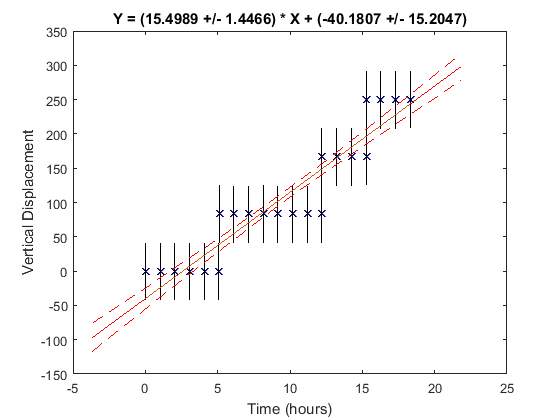
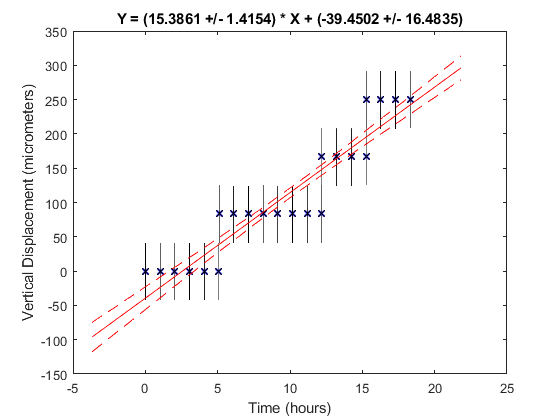
update

diff --git a/Time_lapse_code.m b/Time_lapse_code.m
@@ -19,6 +19,7 @@ y_error = 0.5*d_per_pix*1000;
 
 x = T_hour;
 y = d.*1000;
+% y = y./cos(pi/4);
 
 plot(x,y,'x','color',[0.2 0.2 0.98],'linewidth',1.5); 
 hold on 
@@ -38,30 +39,33 @@ hold on
 % https://uk.mathworks.com/matlabcentral/fileexchange/45711-linear-fit-with-both-uncertainties-in-x-and-in-y
 % Performs a linear fit with uncertainties in x and y, using a Monte Carlo method
 [ p, sp ] = linfitxy( x, y, x_error, y_error); %1 +/- STD lines
-A = p(1);
-B = p(2);
-x_lin = x;
-y_lin = A*x + B;
-plot(x_lin, y_lin);
+
+
+% % figure
+% % A = p(1);
+% % B = p(2);
+% % x_lin = x;
+% % y_lin = A*x + B;
+% % plot(x_lin, y_lin);
 xlabel('Time (hours)');
-ylabel('Vertical Displacement');
-
-% err = ones(size(x));
-% errorbar(x, y, 0.5, 'LineStyle','none');
-
-% Exponential fit
-figure
-f = fit(x,y,'exp1'); % 95%  confidence bound 
-plot(f,x,y)
-
-
-y1 = 13.11*exp(0.1191*x);
-hold on
-plot(x,y1,'k:');
-
-y2 = 29.56*exp(0.1692*x);
-hold on
-plot(x,y2,'k:');
+ylabel('Vertical Displacement (micrometers)');
+% % 
+% % % err = ones(size(x));
+% % % errorbar(x, y, 0.5, 'LineStyle','none');
+% % 
+% % % Exponential fit
+% % figure
+% % f = fit(x,y,'exp1'); % 95%  confidence bound 
+% % plot(f,x,y)
+% % 
+% % 
+% % y1 = 13.11*exp(0.1191*x);
+% % hold on
+% % plot(x,y1,'k:');
+% % 
+% % y2 = 29.56*exp(0.1692*x);
+% % hold on
+% % plot(x,y2,'k:');
 
 
 
@@ -72,17 +76,23 @@ ex1_u1 = FAT_1(:,1) + (FAT_1(:,2).*FAT_1(:,6)) - 290;
 ex2_u1 = FAT_2(:,1) + (FAT_2(:,2).*FAT_2(:,6)) - 290;
 ex3_u1 = FAT_3(:,1) + (FAT_3(:,2).*FAT_3(:,6)) - 290;
 FL1_u1 = FL_1(:,1) + (FL_1(:,2).*FL_1(:,6)) - 290;
+FL2_u1 = FL_2(:,1) + (FL_2(:,2).*FL_2(:,6)) - 290;
+FL3_u1 = FL_3(:,1) + (FL_3(:,2).*FL_3(:,6)) - 290;
 
 ex1_un = FAT_1(:,3) + (FAT_1(:,4).*FAT_1(:,6))- 290;
 ex2_un = FAT_2(:,3) + (FAT_2(:,4).*FAT_2(:,6))- 290;
 ex3_un = FAT_3(:,3) + (FAT_3(:,4).*FAT_3(:,6))- 290;
 FL1_un = FL_1(:,3) + (FL_1(:,4).*FL_1(:,6))- 290;
+FL2_un = FL_2(:,3) + (FL_2(:,4).*FL_2(:,6))- 290;
+FL3_un = FL_3(:,3) + (FL_3(:,4).*FL_3(:,6))- 290;
 
 
 ex1_dec = log( (ex1_u1)./(ex1_un) ) ./ FAT_1(:,5);
 ex2_dec = log( (ex2_u1)./(ex2_un) ) ./ FAT_2(:,5);
 ex3_dec = log( (ex3_u1)./(ex3_un) ) ./ FAT_3(:,5);
 FL1_dec = log( (FL1_u1)./(FL1_un) ) ./ FL_1(:,5);
+FL2_dec = log( (FL2_u1)./(FL2_un) ) ./ FL_2(:,5);
+FL3_dec = log( (FL3_u1)./(FL3_un) ) ./ FL_3(:,5);
 
 den = ( (4*pi) + (ex1_dec).^2).^0.5;
 ex1_zeta = ex1_dec./(den);
@@ -92,6 +102,11 @@ den = ( (4*pi) + (ex3_dec).^2).^0.5;
 ex3_zeta = ex3_dec./(den);
 den = ( (4*pi) + (FL1_dec).^2).^0.5;
 FL1_zeta = FL1_dec./(den);
+den = ( (4*pi) + (FL2_dec).^2).^0.5;
+FL2_zeta = FL2_dec./(den);
+den = ( (4*pi) + (FL3_dec).^2).^0.5;
+FL3_zeta = FL3_dec./(den);
+
 
 M = 155.99/1000;
 k = 4*54.04;
@@ -102,22 +117,61 @@ ex1_c = ex1_zeta.*const;
 ex2_c = ex2_zeta.*const;
 ex3_c = ex3_zeta.*const;
 FL1_c = FL1_zeta.*const;
+FL2_c = FL2_zeta.*const;
+FL3_c = FL3_zeta.*const;
 
+%% errors
+ex1_zeta_Aerror = (4.*(FAT_1(:,6)./2).*ex1_un)./(FAT_1(:,5).*ex1_u1);
+ex2_zeta_Aerror = (4.*(FAT_2(:,6)./2).*ex2_un)./(FAT_2(:,5).*ex2_u1);
+ex3_zeta_Aerror = (4.*(FAT_3(:,6)./2).*ex3_un)./(FAT_3(:,5).*ex3_u1);
+FL1_zeta_Aerror = (4.*(FL_1(:,6)./2).*FL1_un)./(FL_1(:,5).*FL1_u1);
+FL2_zeta_Aerror = (4.*(FL_2(:,6)./2).*FL2_un)./(FL_2(:,5).*FL2_u1);
+FL3_zeta_Aerror = (4.*(FL_3(:,6)./2).*FL3_un)./(FL_3(:,5).*FL3_u1);
 
-ex1_c_error = (4.*(FAT_1(:,6)./2).*ex1_un.*const)./(FAT_1(:,5).*ex1_u1);
-ex2_c_error = (4.*(FAT_2(:,6)./2).*ex2_un.*const)./(FAT_2(:,5).*ex2_u1);
-ex3_c_error = (4.*(FAT_3(:,6)./2).*ex3_un.*const)./(FAT_3(:,5).*ex3_u1);
-FL1_c_error = (4.*(FL_1(:,6)./2).*FL1_un.*const)./(FL_1(:,5).*FL1_u1);
+k_Aerror = 2.05;
+k_Perror = 3.80;
+const_Perror = k_Perror/4;
+
+ex1_zeta_Perror = (ex1_zeta_Aerror./ex1_zeta).*100;
+ex2_zeta_Perror = (ex2_zeta_Aerror./ex2_zeta).*100;
+ex3_zeta_Perror = (ex3_zeta_Aerror./ex3_zeta).*100;
+FL1_zeta_Perror = (FL1_zeta_Aerror./FL1_zeta).*100;
+FL2_zeta_Perror = (FL2_zeta_Aerror./FL2_zeta).*100;
+FL3_zeta_Perror = (FL3_zeta_Aerror./FL3_zeta).*100;
+
+ex1_c_Perror = ex1_zeta_Perror + const_Perror;
+ex2_c_Perror = ex2_zeta_Perror + const_Perror;
+ex3_c_Perror = ex3_zeta_Perror + const_Perror;
+FL1_c_Perror = FL1_zeta_Perror + const_Perror;
+FL2_c_Perror = FL2_zeta_Perror + const_Perror;
+FL3_c_Perror = FL3_zeta_Perror + const_Perror;
+
+ex1_c_Aerror = (ex1_c_Perror.*ex1_c)./100;
+ex2_c_Aerror = (ex2_c_Perror.*ex2_c)./100;
+ex3_c_Aerror = (ex3_c_Perror.*ex3_c)./100;
+FL1_c_Aerror = (FL1_c_Perror.*FL1_c)./100;
+FL2_c_Aerror = (FL2_c_Perror.*FL2_c)./100;
+FL3_c_Aerror = (FL3_c_Perror.*FL3_c)./100;
+
 
 ex1_c_mean = mean(ex1_c);
 ex2_c_mean = mean(ex2_c);
 ex3_c_mean = mean(ex3_c);
 FL1_c_mean = mean(FL1_c);
+FL2_c_mean = mean(FL2_c);
+FL3_c_mean = mean(FL3_c);
 
-ex1_c_error_mean = mean(ex1_c_error)/sqrt(length(ex1_c_error));
-ex2_c_error_mean = mean(ex2_c_error)/sqrt(length(ex2_c_error));
-ex3_c_error_mean = mean(ex3_c_error)/sqrt(length(ex3_c_error));
-FL1_c_error_mean = mean(FL1_c_error)/sqrt(length(FL1_c_error));
+% ex1_c_error_mean = mean(ex1_c_Aerror)/sqrt(length(ex1_c_Aerror));
+% ex2_c_error_mean = mean(ex2_c_Aerror)/sqrt(length(ex2_c_Aerror));
+% ex3_c_error_mean = mean(ex3_c_Aerror)/sqrt(length(ex3_c_Aerror));
+% FL1_c_error_mean = mean(FL1_c_Aerror)/sqrt(length(FL1_c_Aerror));
+
+ex1_c_Aerror_mean = mean(ex1_c_Aerror)/sqrt(length(ex1_c_Aerror));
+ex2_c_Aerror_mean = mean(ex2_c_Aerror)/sqrt(length(ex2_c_Aerror));
+ex3_c_Aerror_mean = mean(ex3_c_Aerror)/sqrt(length(ex3_c_Aerror));
+FL1_c_Aerror_mean = mean(FL1_c_Aerror)/sqrt(length(FL1_c_Aerror));
+FL2_c_Aerror_mean = mean(FL2_c_Aerror)/sqrt(length(FL2_c_Aerror));
+FL3_c_Aerror_mean = mean(FL3_c_Aerror)/sqrt(length(FL3_c_Aerror));
 
 % printf('experiment 1 mean = %f +- %f ', ex1_c_mean, ex1_c_error_mean);
 % printf('experiment 2 mean = %f +- %f ', ex2_c_mean, ex2_c_error_mean);
@@ -126,46 +180,53 @@ FL1_c_error_mean = mean(FL1_c_error)/sqrt(length(FL1_c_error));
 
 exp_all = [ex1_c_mean;ex2_c_mean;ex3_c_mean];
 exp_mean = mean(exp_all)
-exp_all_error = [ex1_c_error_mean;ex2_c_error_mean;ex3_c_error_mean];
+exp_all_error = [ex1_c_Aerror_mean;ex2_c_Aerror_mean;ex3_c_Aerror_mean];
 exp_mean_error = mean(exp_all_error)/sqrt(length(exp_all_error))
 
+FL_all = [FL1_c_mean;FL2_c_mean;FL3_c_mean];
+FL_mean = mean(FL_all)
+FL_all_error = [FL1_c_Aerror_mean;FL2_c_Aerror_mean;FL3_c_Aerror_mean];
+FL_mean_error = mean(FL_all_error)/sqrt(length(FL_all_error))
+
+%%
 x = [1:10];
 x_all = [1:10,1:10,1:10];
-y_all = [ex1_c;ex2_c;ex3_c];
-error_all = [ex1_c_error;ex2_c_error;ex3_c_error];
-
-figure
-% scatter(x_all, y_all);
-plot(x_all,y_all,'x','color',[0.2 0.2 0.98],'linewidth',1.5); 
-hold on
-[ p, sp ] = linfitxy( x_all, y_all, 0, error_all); %1 +/- STD lines
-A = p(1);
-B = p(2);
-x_lin = x;
-y_lin = A*x + B;
-plot(x_lin, y_lin);
+y_all_exp = [ex1_c;ex2_c;ex3_c];
+error_all = [ex1_c_Aerror;ex2_c_Aerror;ex3_c_Aerror];
 
 % figure
+% % scatter(x_all, y_all);
+% plot(x_all,y_all_exp,'x','color',[0.2 0.2 0.98],'linewidth',1.5); 
+% % hold on
+% % [ p, sp ] = linfitxy( x_all, y_all, 0, error_all); %1 +/- STD lines
+% % % A = p(1);
+% % % B = p(2);
+% % % x_lin = x;
+% % % y_lin = A*x + B;
+% % % plot(x_lin, y_lin);
+% 
+% % figure
 hold on
-% scatter(x_all, y_all);
-plot(x,FL1_c,'x','color',[0.57 0 0],'linewidth',1.5); 
-hold on
-[ p, sp ] = linfitxy( x, FL1_c, 0, FL1_c_error); %1 +/- STD lines
-A = p(1);
-B = p(2);
-x_lin = x;
-y_lin = A*x + B;
-plot(x_lin, y_lin);
+y_all_FL = [FL1_c;FL2_c;FL3_c];
+% % scatter(x_all, y_all);
+% plot(x_all,y_all_FL,'^','color',[0.57 0 0],'linewidth',1.5); 
+% % hold on
+% % [ p, sp ] = linfitxy( x, y_all, 0, FL1_c_Aerror); %1 +/- STD lines
+% % % A = p(1);
+% % % B = p(2);
+% % % x_lin = x;
+% % % y_lin = A*x + B;
+% % % plot(x_lin, y_lin);
 
 
 
 figure
 % Just Scatter
-plot(x_all,y_all,'x','color',[0.2 0.2 0.98],'linewidth',1.5); 
+plot(x_all,y_all_exp,'x','color',[0.2 0.2 0.98],'linewidth',1.5); 
 hold on
-plot(x,FL1_c,'x','color',[0.57 0 0],'linewidth',1.5); 
+plot(x_all,y_all_FL,'^','color',[0.57 0 0],'linewidth',1.5); 
 xlabel('Iteration');
-ylabel('Damping Coeficient');
+ylabel('Damping Coeficient (Ns/m)');
 legend('Air Pocket Bearing','Flooded Bearing');
 
 
